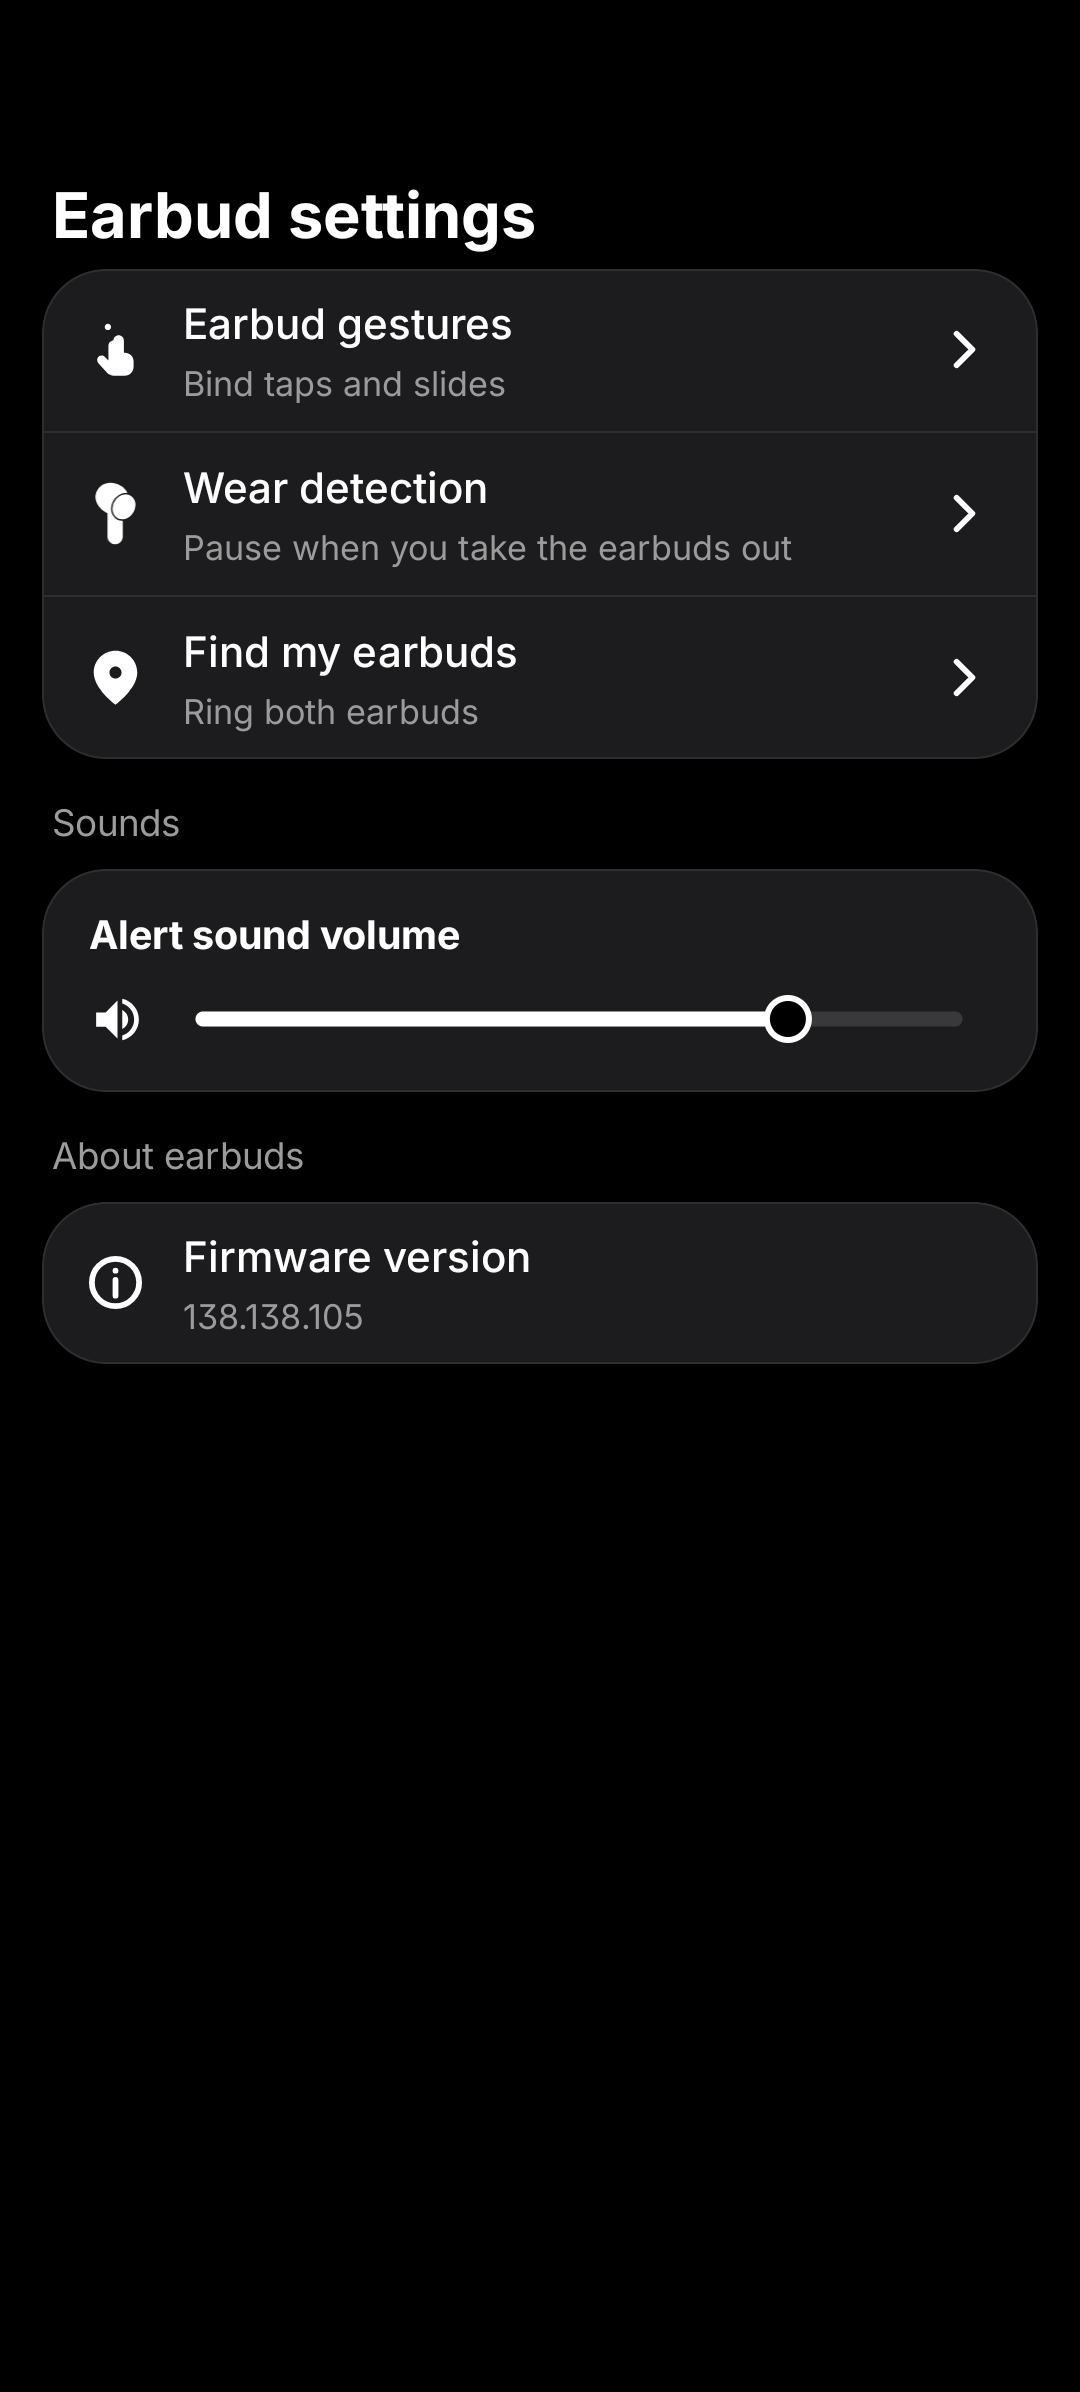
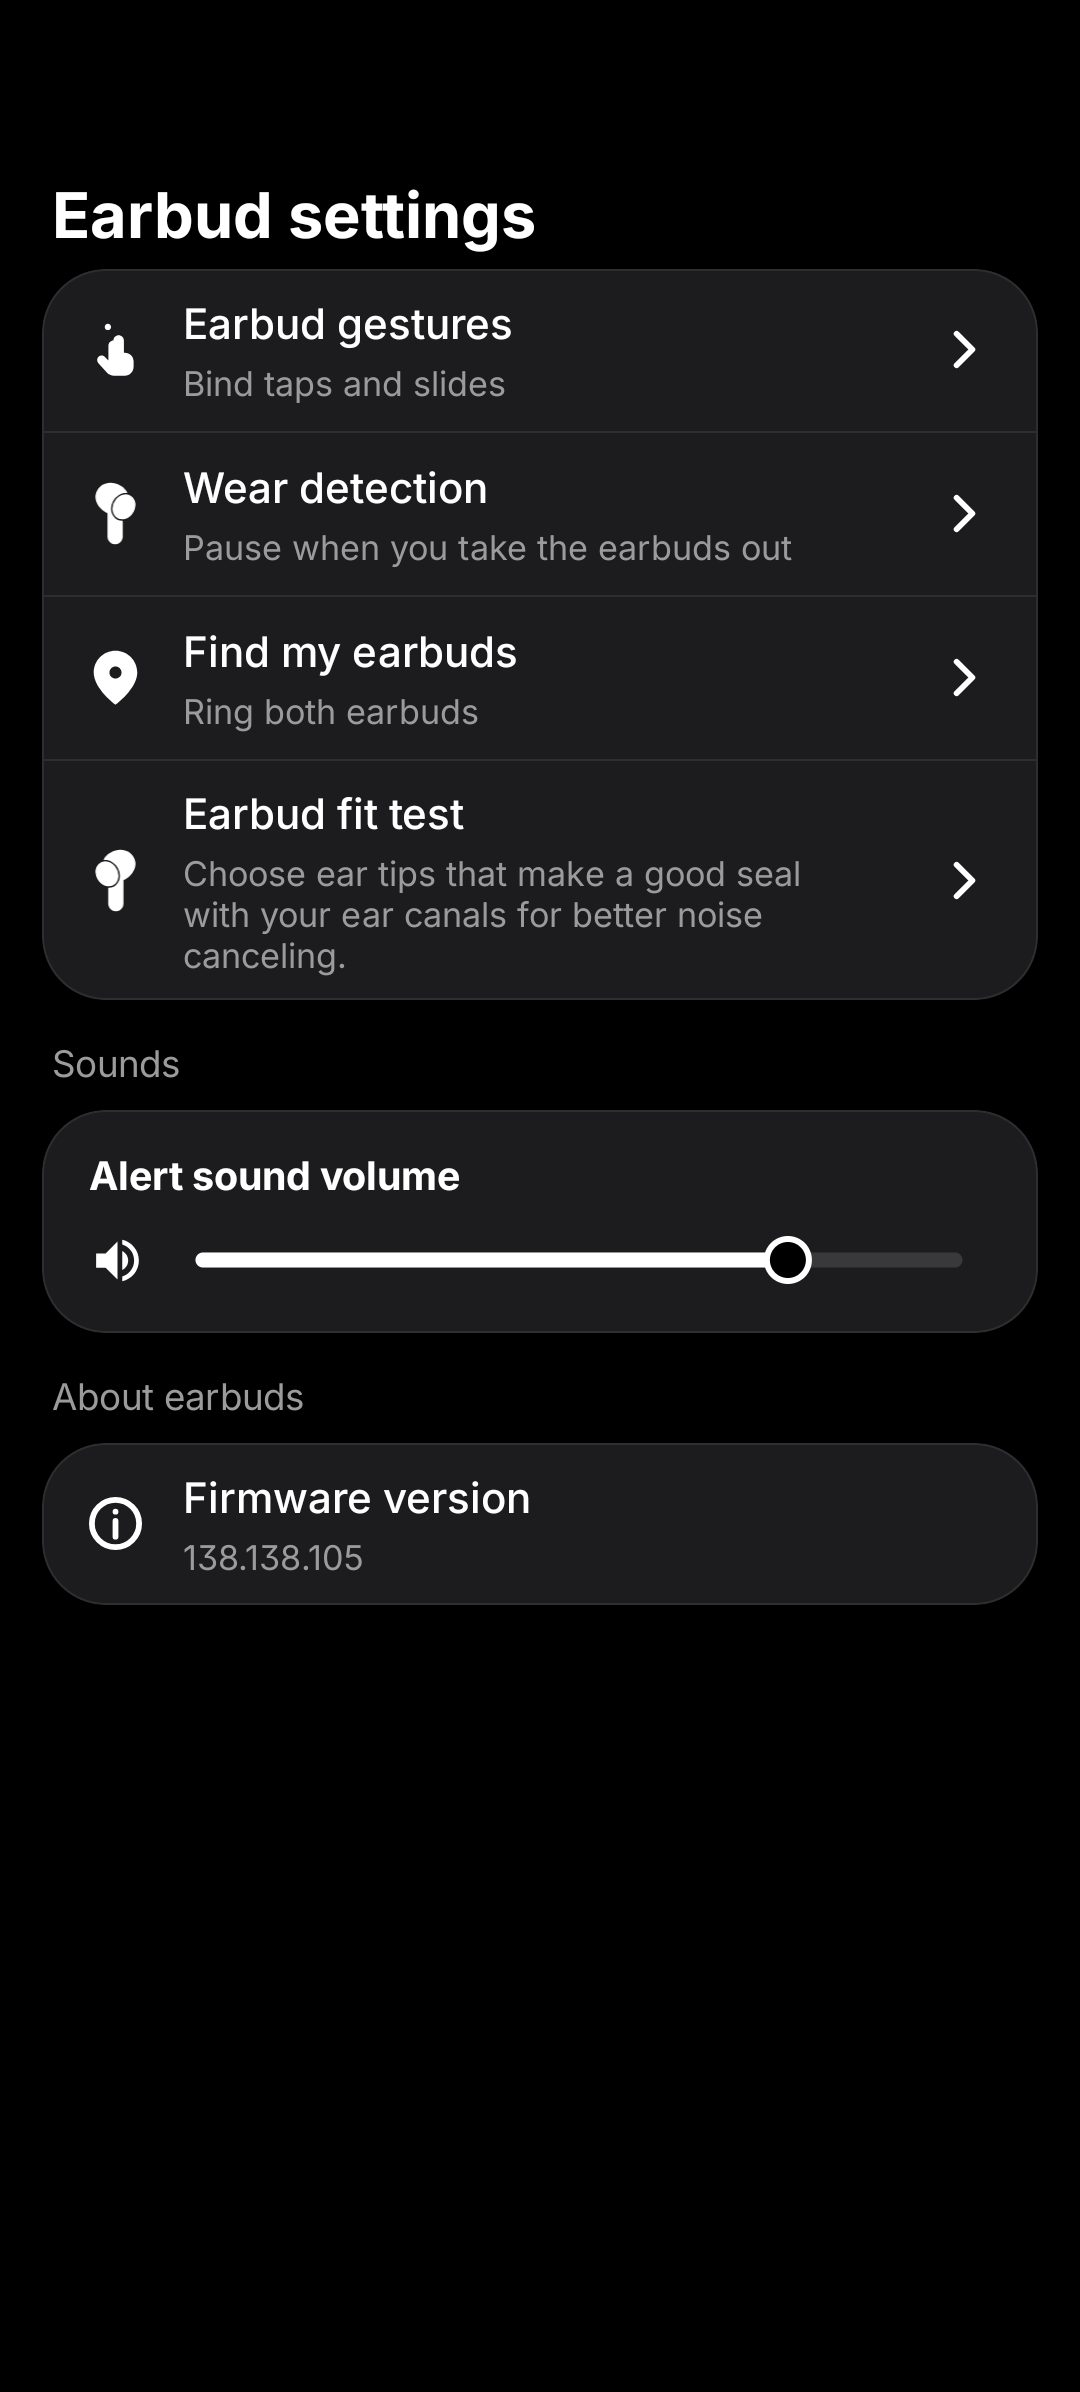
3.5.0: README screenshots with Hearing profile and fit test, roadmap

Changed region(s): [[0.0306, 0.2784, 0.9778, 0.6806]]

diff --git a/README.md b/README.md
@@ -1,8 +1,8 @@
 # QuickBuds
 
 > Open-source HeyMelody alternative for Android. Control OnePlus / OPPO / realme earbuds over
-> Bluetooth, no root: battery, noise cancellation (ANC), equalizer, gestures, wear detection, find my
-> earbuds, dual connection, low latency mode and home screen widgets.
+> Bluetooth, no root: battery, noise cancellation (ANC), equalizer, hearing profile, gestures, wear
+> detection, fit test, find my earbuds, dual connection, low latency mode and home screen widgets.
 
 [![License: GPL-3.0](https://img.shields.io/badge/License-GPL--3.0-blue.svg)](./LICENSE)
 [![Platform](https://img.shields.io/badge/Platform-Android%208%2B-3DDC84.svg)]()
@@ -26,6 +26,10 @@ home-screen widget.
 | Settings | Themes, colors & styles | Edit preset | Home layout |
 | :---: | :---: | :---: | :---: |
 | <img src="docs/screenshots/settings.png" width="200"> | <img src="docs/screenshots/theme.png" width="200"> | <img src="docs/screenshots/preset.png" width="200"> | <img src="docs/screenshots/home-layout.png" width="200"> |
+
+| Hearing profile | Hearing test | Earbud fit test |
+| :---: | :---: | :---: |
+| <img src="docs/screenshots/hearing-profile.png" width="200"> | <img src="docs/screenshots/hearing-test.png" width="200"> | <img src="docs/screenshots/fit-test.png" width="200"> |
 
 | Dual connection | Widget settings | App update | About |
 | :---: | :---: | :---: | :---: |
@@ -59,6 +63,10 @@ dot-matrix graphics. Every screen in this style is in [docs/screenshots/nothing]
 - **Equalizer:** built-in presets, up to 3 custom 6-band presets you draw on a curve, and bass boost.
   Saved on the earbuds.
 - **High-quality audio (LHDC), 3D audio and Low latency mode.**
+- **Hearing profile:** a hearing test (ear scan, then 6 tones per ear) that tunes the sound to your
+  ears, run in the app. Profiles are kept on the phone, one tap applies one, and a graph per ear shows
+  what it does. Profiles made in HeyMelody show up too.
+- **Earbud fit test:** checks that the ear tips seal well.
 - **Gestures** per bud: taps, slide and hold, plus the on-call gestures.
 - **Wear detection**, **Dual connection**, **Find my earbuds**, the earbuds' prompt volume and their
   firmware version.

diff --git a/docs/ROADMAP.md b/docs/ROADMAP.md
@@ -14,9 +14,8 @@ Status words: **Next**, **Open**, **Question** (needs an answer before work star
 
 Parity with HeyMelody is the main priority ([USER] 2026-09-29, reversing the 2026-09-27 skip):
 
-- **Golden Sound: the test itself.** Built 2026-09-29 (Golden Sound screen from the home row: profiles,
-  hearing test). Waiting for a full on-device run; move to ROADMAP-DONE once confirmed. Not built: HeyMelody's
-  before / after preview (`0x040E 01` / `02`) and renaming a profile.
+- **Hearing profile extras** (Open): HeyMelody's before / after preview on the result (`0x040E 01` / `02`,
+  PROTOCOL.md §9) and renaming a profile.
 
 **The UI adapts to the model** ([USER] 2026-09-29): a feature the model lacks is not shown; a feature a
 model has that the app does not have yet gets its UI built. So every HeyMelody feature in the model list

diff --git a/docs/ROADMAP-DONE.md b/docs/ROADMAP-DONE.md
@@ -26,6 +26,11 @@ What is finished and confirmed. The live plan is in [ROADMAP.md](./ROADMAP.md).
 
 ## Controls
 
+- Hearing profile (HeyMelody's "Golden Sound", renamed, [USER] 2026-09-29): the hearing test in the app
+  (ear scan, 12 tones, save, apply), profiles kept on the phone, the buds' own profile read back, and
+  HeyMelody's radar per ear. Full run confirmed by him on Buds 4, 2026-09-29.
+- Earbud fit test from Earbud settings, confirmed on Buds 4 (2026-09-29).
+
 - ANC: Off / Transparency / Adaptive / Low / Medium / High on the main screen and widget.
   Changes made on the buds show up in the app.
 - Earbud gestures: tap, double, triple, hold and slide per bud. The function values were measured,

diff --git a/CLAUDE.md b/CLAUDE.md
@@ -74,7 +74,7 @@ v1.1.0 was signed with a different key, so moving from 1.1.0 to 2.0.0 also needs
 ### Versioning — `build.gradle.kts` defaultConfig is the single source
 
 `versionCode` / `versionName` are set **only** in `app/build.gradle.kts` `defaultConfig`.
-**Current: versionCode 10 / versionName 3.4.1.**
+**Current: versionCode 11 / versionName 3.5.0.**
 
 They used to be on `<application>` in the manifest. **Android ignores them there**, so every PC build
 up to 2026-09-23 shipped with no version at all (`aapt2 dump badging` showed `versionCode=''`),
